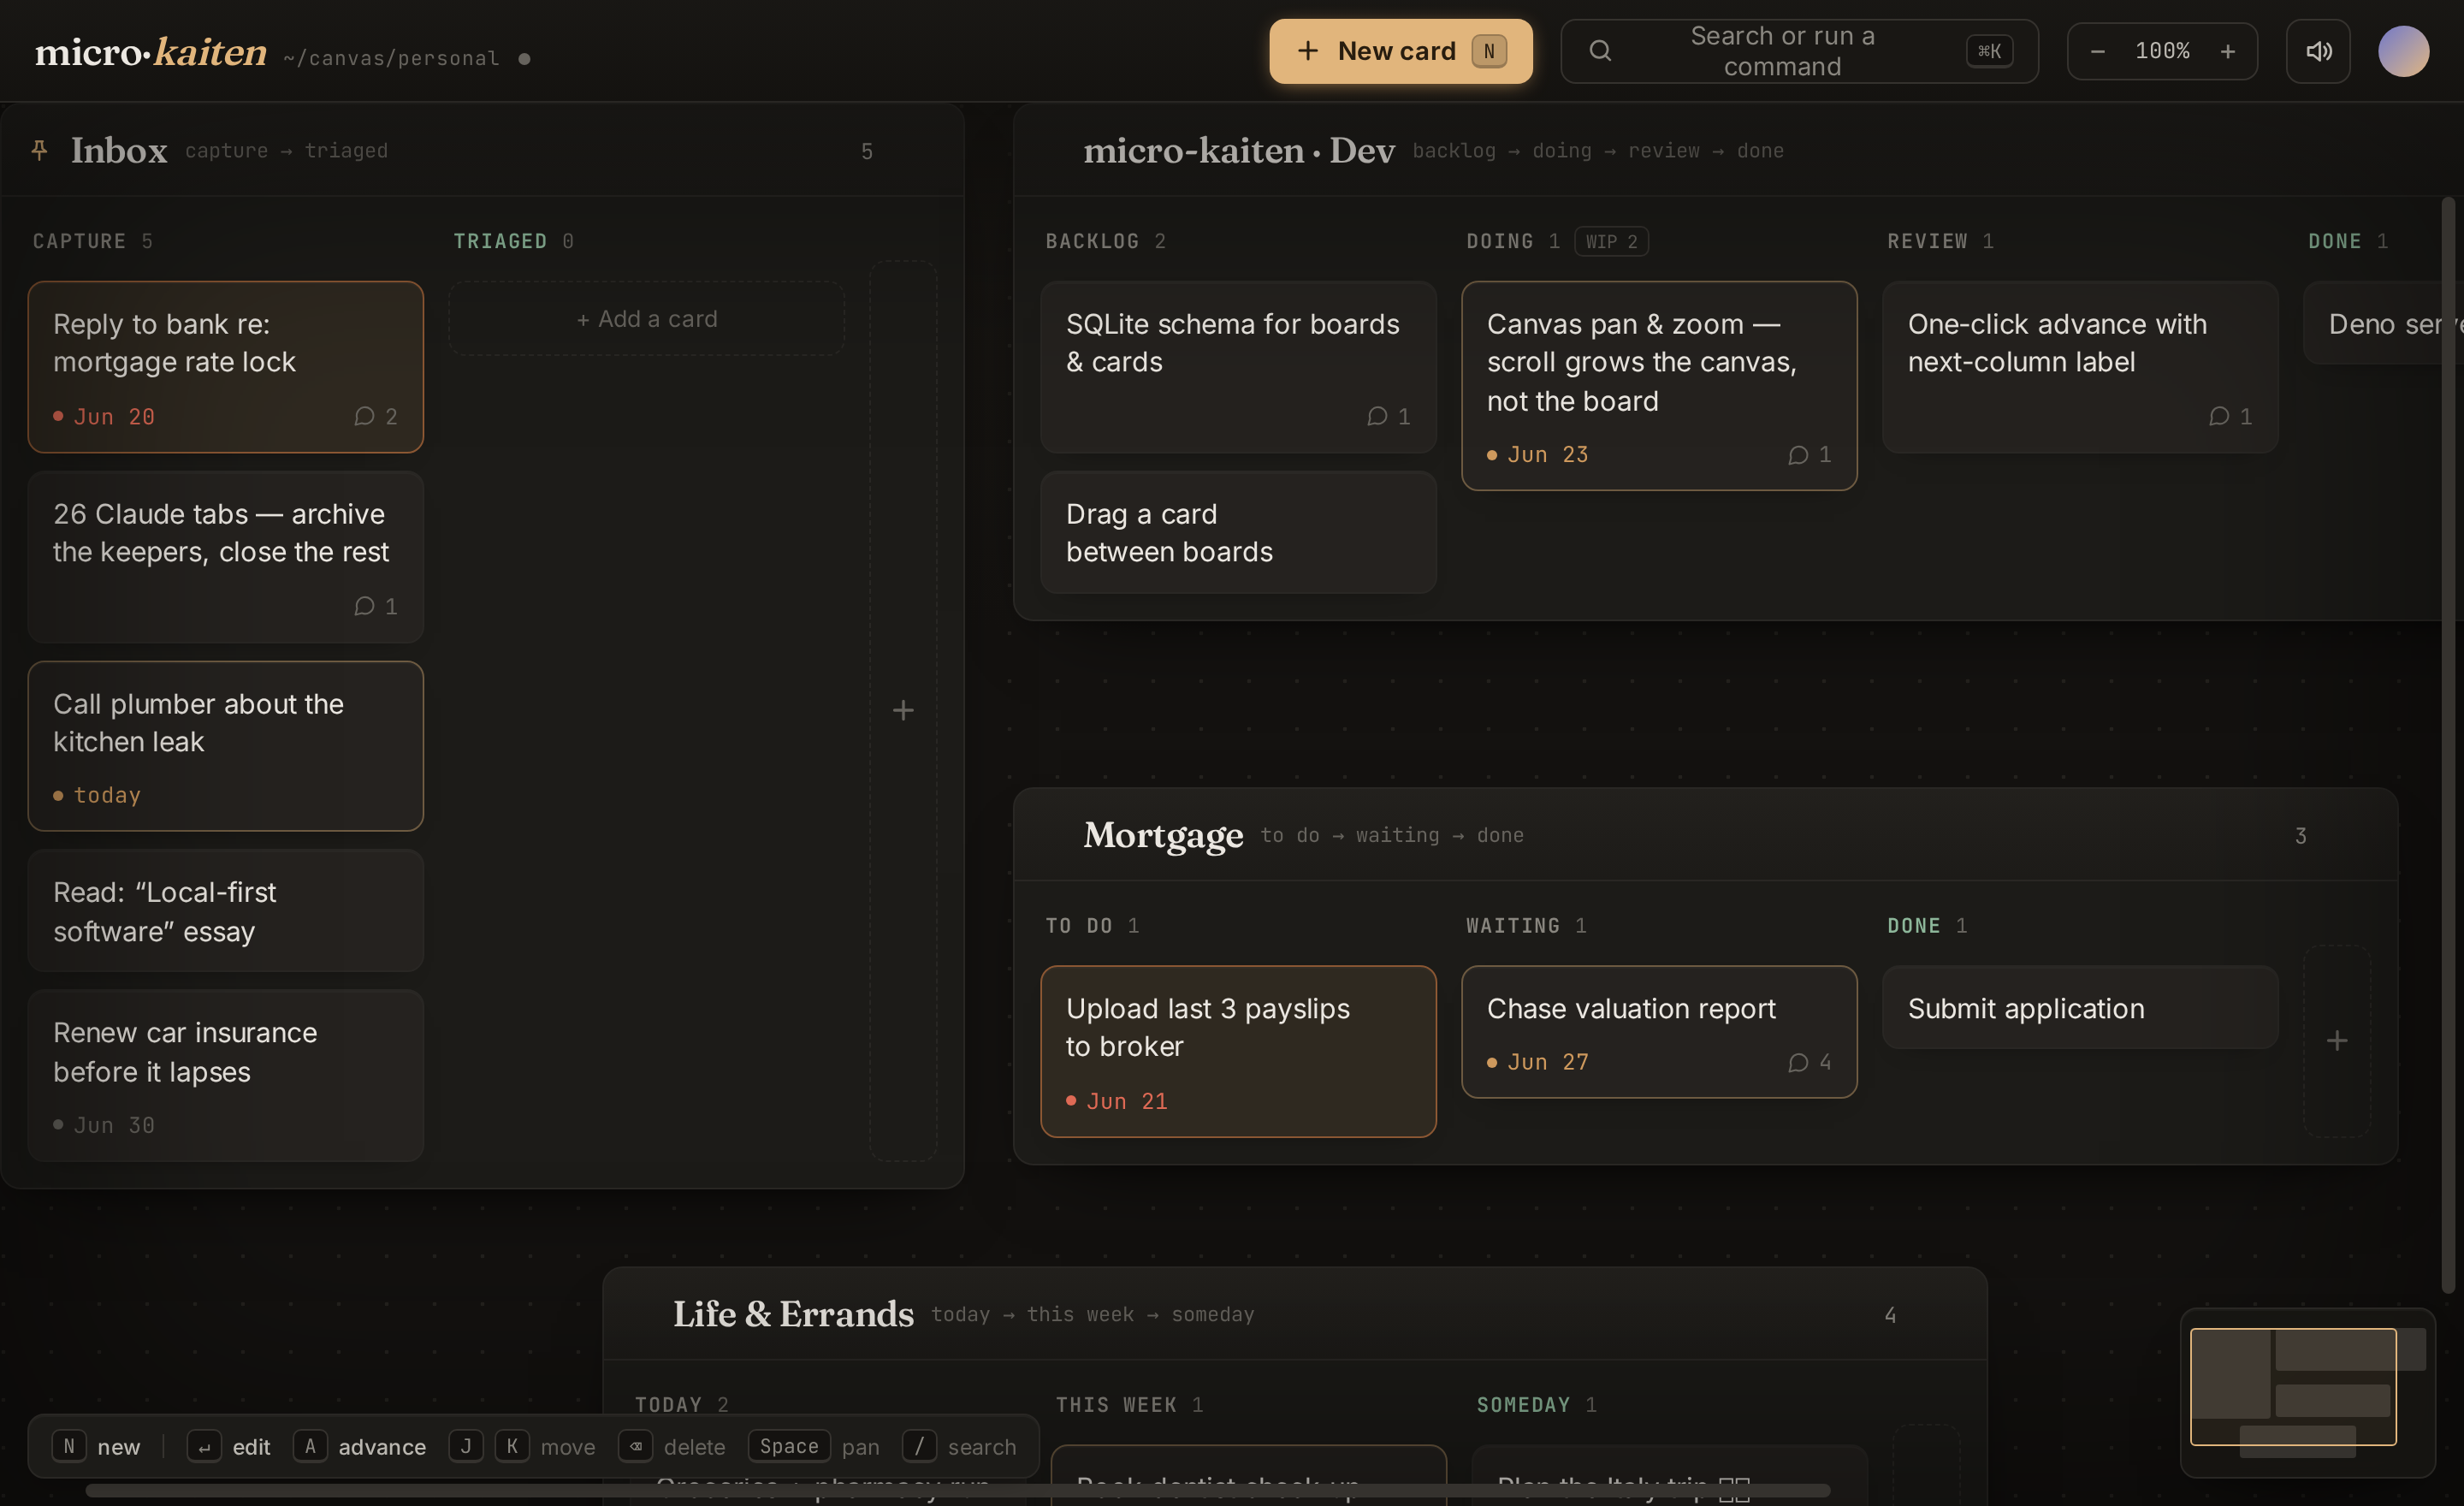
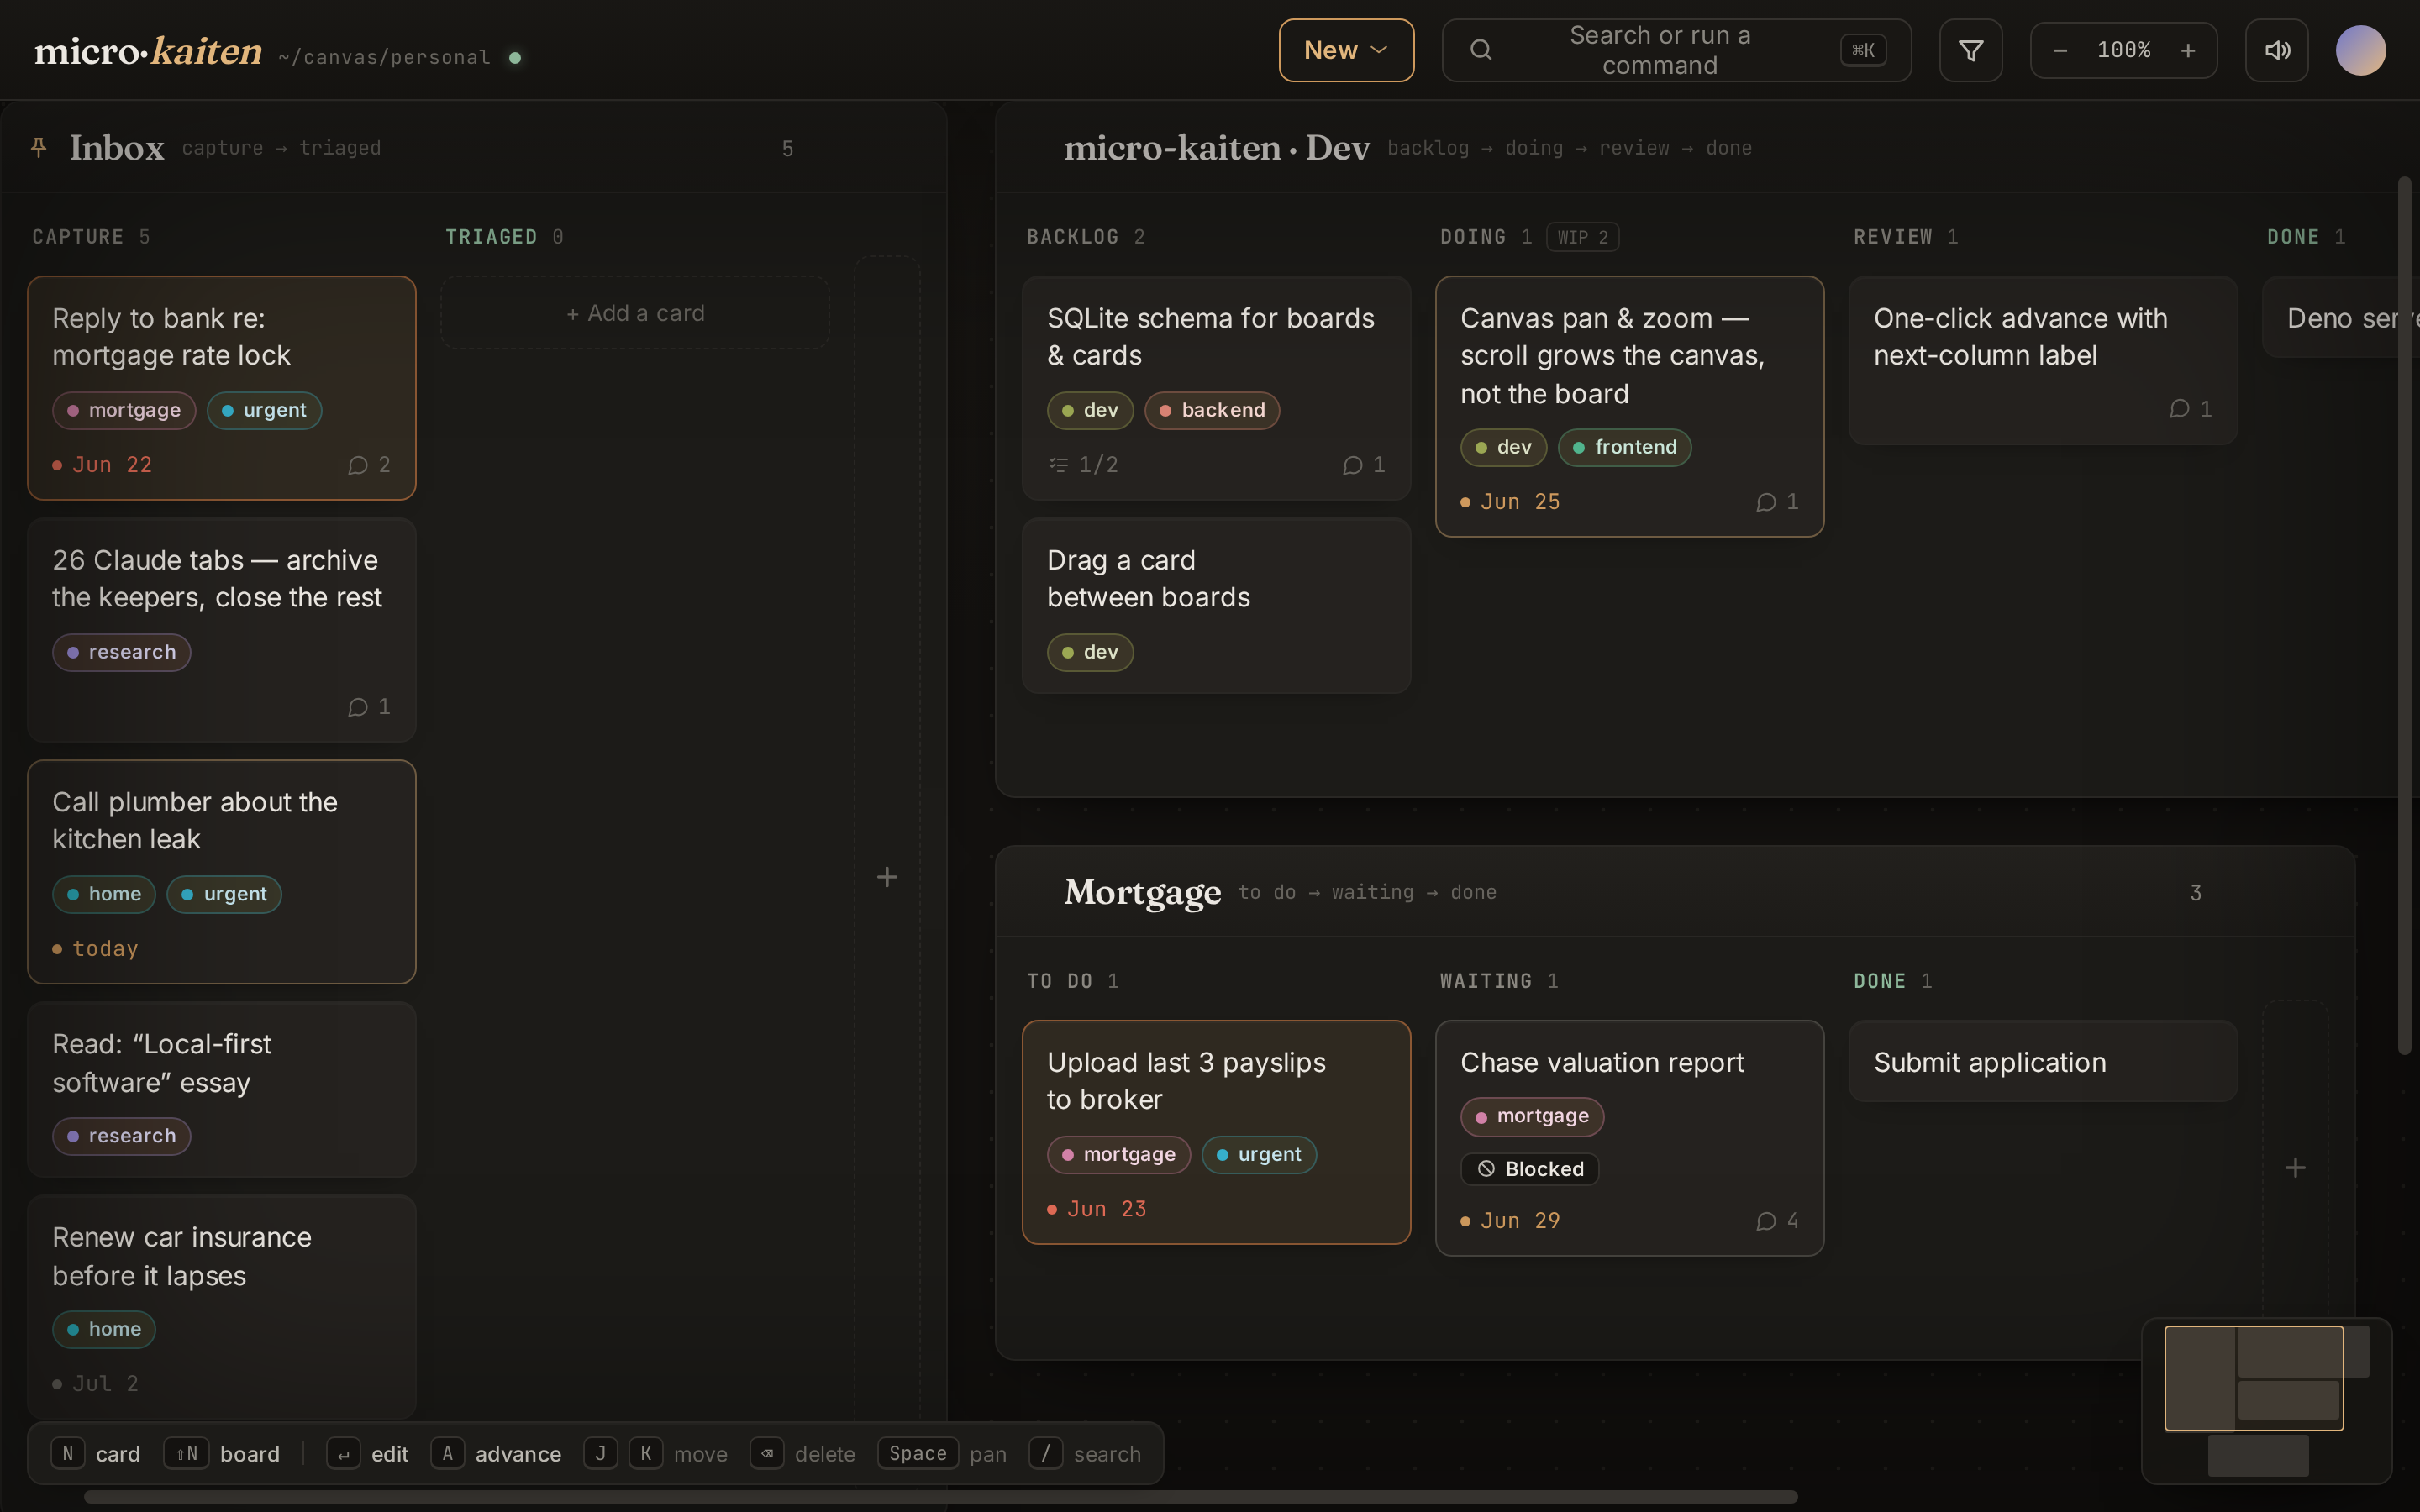
docs: BLUF README + single refreshed screenshot

diff --git a/README.md b/README.md
@@ -6,65 +6,63 @@
 [![Sponsor](https://img.shields.io/github/sponsors/umag?label=Sponsor&logo=GitHub&color=ea4aaa)](https://github.com/sponsors/umag)
 [![Patreon](https://img.shields.io/badge/Patreon-Support-f96854?logo=patreon&logoColor=white)](https://www.patreon.com/_Magistr_)
 
-A self-hosted **personal kanban canvas**: many boards laid out in one spatial
-area instead of one board at a time. Capture a thought in a keystroke, advance it
-one column at a time, pan across the canvas. Single-user, no accounts, no cloud —
-a small Deno + SQLite backend and a dependency-light Vite/TS frontend.
+**A self-hosted personal kanban _canvas_** — every board laid out in one spatial area
+instead of one board at a time. Capture a thought in a keystroke, advance it a column at
+a time, pan across the canvas. Single-user, no accounts, no cloud.
 
-If micro-kaiten is useful to you, please consider supporting its maintenance via
-[**❤️ GitHub Sponsors**](https://github.com/sponsors/umag) or
-[**Patreon**](https://www.patreon.com/_Magistr_).
+```bash
+docker compose up        # → http://localhost:8787
+```
+
+That's the whole thing: one **Deno + SQLite** container serving the API and a
+dependency-light **Vite/TypeScript** frontend. Keyboard-first throughout.
 
 ![micro-kaiten — the spatial board canvas](docs/screenshot.png)
 
-> A calm, spatial take on the multi-board kanban idea. See [`DESIGN.md`](DESIGN.md)
-> and [`PRODUCT.md`](PRODUCT.md).
+> Why it looks and behaves this way: [`DESIGN.md`](DESIGN.md) · [`PRODUCT.md`](PRODUCT.md).
+> Useful? Support it via [**❤️ GitHub Sponsors**](https://github.com/sponsors/umag) or
+> [**Patreon**](https://www.patreon.com/_Magistr_).
 
 ## Highlights
 
-- **One spatial canvas** of draggable boards; a pinned top-left **anchor** board, the
-  rest snap to its right and below. Pan/zoom with inertia; a minimap and canvas scrollbars.
-- **Capture + advance** as the only first-class acts — keyboard-first throughout
-  (`N` new · `A` advance · `J/K` move · `⌘K` palette · `/` search).
+- **One spatial canvas** of draggable boards — a pinned top-left **anchor** board, the
+  rest snap to its right and below. Pan/zoom with inertia; minimap + canvas scrollbars.
+- **Keyboard-first capture & create** — `N` new card · `⇧N` new board · `A` advance ·
+  `J/K` move · `⌘K` palette · `/` search. The top-bar **New ▾** menu mirrors it for the mouse.
+- **New cards land where you expect** — in the **active board** (click any board to target
+  it), else the **Inbox** board. The New-card menu shows the target as a `→ <board>` hint.
 - **Calm, deadline-aware cards** — title, optional date (coloured by deadline), comment count.
-- **Labels** — tag cards with colour-coded labels (the colour is derived from the text), then
-  filter the whole canvas by one or more labels from the top-bar funnel, a card's chip, or `⌘K`.
+- **Labels** — colour-coded tags (colour derived from the text); filter the whole canvas by
+  one or more labels from the top-bar funnel, a card's chip, or `⌘K`.
 - **Paste a link** — the card titles itself from the page; the URL drops into notes. Works for
-  articles (`og:title`/`<title>`) and **YouTube** (via oEmbed). Existing URL-titled cards backfill.
-- **Bespoke date picker**, inline column rename, card-detail sheet with notes + comments.
+  articles (`og:title`/`<title>`) and **YouTube** (oEmbed). Existing URL-titled cards backfill.
+- **Bespoke date picker**, inline board/column rename, card-detail sheet with notes + comments.
 - **Hidden Archive** — cards done ≥ 10 days auto-move there (swept server-side, headless).
 - **REST API** for external card/board/column management — see [`server/API.md`](server/API.md).
 
-![Paste a YouTube or article link and the card titles itself](docs/screenshot-links.png)
-
 ## Run with Docker
 
-One container (Deno serves the API **and** the built frontend on port 8787),
-pulling the image CI publishes to Docker Hub:
+One container (Deno serves the API **and** the built frontend on port 8787), pulling the
+image CI publishes to Docker Hub:
 
 ```bash
-docker compose up        # pulls umagistr/mk → open http://localhost:8787
+docker compose up                              # pulls umagistr/mk
+docker run -p 8787:8787 -v mk-data:/data umagistr/mk   # or run it directly
 ```
 
-Or run it directly:
+The SQLite database persists in the `mk-data` volume (`/data/mk.db`). Override the port with
+`MK_PORT`. To build from source instead, uncomment `build: .` in `docker-compose.yml` (or
+`docker build -t mk .`).
 
-```bash
-docker run -p 8787:8787 -v mk-data:/data umagistr/mk
-```
-
-The SQLite database persists in the `mk-data` volume (`/data/mk.db`). Override the
-port with `MK_PORT`. To build from source instead, uncomment `build: .` in
-`docker-compose.yml` (or `docker build -t mk .`).
-
-**Image tags** (`umagistr/mk`): `latest` = newest release · `YYYY.MM.DD.N` = a
-specific [CalVer](https://calver.org) release (e.g. `2026.06.22.1`). Every push to
-`main` cuts a CalVer release via the **Release (CalVer)** workflow — there are no
-SHA-tagged images; each release builds the image and opens a matching GitHub release.
+**Image tags** (`umagistr/mk`): `latest` = newest release · `YYYY.MM.DD.N` = a specific
+[CalVer](https://calver.org) release (e.g. `2026.06.22.1`). Every push to `main` cuts a
+CalVer release via the **Release (CalVer)** workflow — no SHA-tagged images; each release
+builds the image and opens a matching GitHub release.
 
 ## Develop
 
-Two processes — the Vite dev server (frontend, proxies `/api` → the backend) and
-the Deno + SQLite API:
+Two processes — the Vite dev server (frontend, proxies `/api` → the backend) and the
+Deno + SQLite API:
 
 ```bash
 npm install
@@ -72,8 +70,8 @@ deno task server      # API on :8787  (writes ./mk.db)
 npm run dev           # app on :5173
 ```
 
-Useful scripts: `npm run gate` (typecheck + unit tests), `npm run build` (production
-frontend → `dist/`), `npm run e2e` (Playwright), `deno check server/main.ts`.
+Scripts: `npm run gate` (typecheck + unit tests) · `npm run build` (production frontend →
+`dist/`) · `npm run e2e` (Playwright) · `deno check server/main.ts`.
 
 ## Layout
 
@@ -84,8 +82,8 @@ server/         Deno + SQLite API + static file serving   (API.md = reference)
 tests/          vitest unit tests        e2e/  Playwright scenarios
 ```
 
-The browser store and the server run the **same `src/core` reducer**, so the app
-and the API can never disagree about what a change means.
+The browser store and the server run the **same `src/core` reducer**, so the app and the
+API can never disagree about what a change means.
 
 ## Tech
 